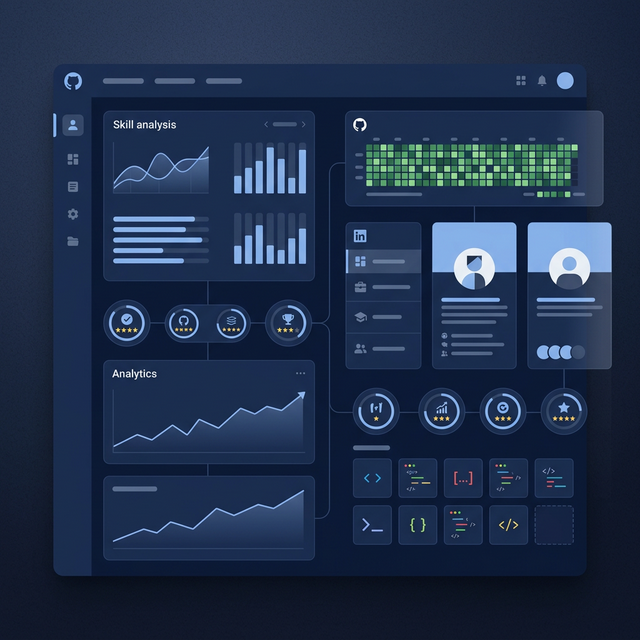
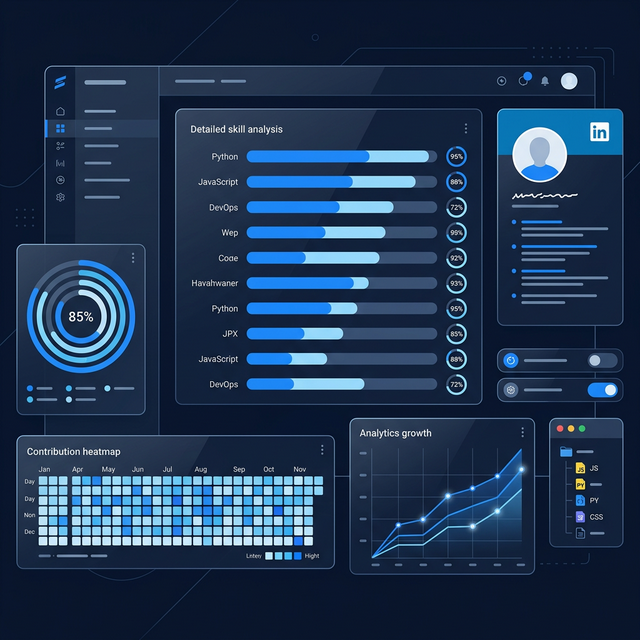
Updated login page layout again

diff --git a/frontend/src/components/AuthCard.jsx b/frontend/src/components/AuthCard.jsx
@@ -1,11 +1,24 @@
 function AuthCard({ children, title, subtitle }) {
   return (
-    <div className="min-h-screen flex">
-      {/* Left side — Form */}
-      <div className="w-full lg:w-1/2 flex flex-col justify-center px-8 sm:px-12 lg:px-16 py-10 bg-white">
+    <div className="min-h-screen flex flex-col lg:flex-row">
+      {/* Mobile hero image — shown above form on small screens */}
+      <div className="block lg:hidden w-full h-48 relative">
+        <img
+          src="/apex-illustration.png"
+          alt="Apex platform illustration"
+          className="w-full h-full object-cover"
+        />
+        <div className="absolute inset-0 bg-brand-950/50" />
+        <div className="absolute bottom-4 left-6 right-6">
+          <span className="text-xl font-bold text-white tracking-tight">Apex</span>
+        </div>
+      </div>
+
+      {/* Left side — Form (45%) */}
+      <div className="w-full lg:w-[45%] flex flex-col justify-center px-8 sm:px-12 lg:px-16 py-10 bg-white">
         <div className="w-full max-w-sm mx-auto">
-          {/* Text Logo */}
-          <div className="mb-10">
+          {/* Text Logo — hidden on mobile since it's in the hero */}
+          <div className="mb-10 hidden lg:block">
             <span className="text-2xl font-bold text-brand-600 tracking-tight">Apex</span>
           </div>
 
@@ -28,13 +41,16 @@ function AuthCard({ children, title, subtitle }) {
         </div>
       </div>
 
-      {/* Right side — Illustration */}
-      <div className="hidden lg:flex lg:w-1/2 relative items-center justify-center bg-white">
+      {/* Right side — Hero image (55%) */}
+      <div className="hidden lg:block lg:w-[55%] relative">
         <img
           src="/apex-illustration.png"
           alt="Apex platform illustration"
-          className="absolute inset-0 w-full h-full object-contain object-right"
+          className="absolute inset-0 w-full h-full object-cover"
         />
+        <div className="absolute inset-0 bg-brand-950/40" />
+
+
       </div>
     </div>
   )
